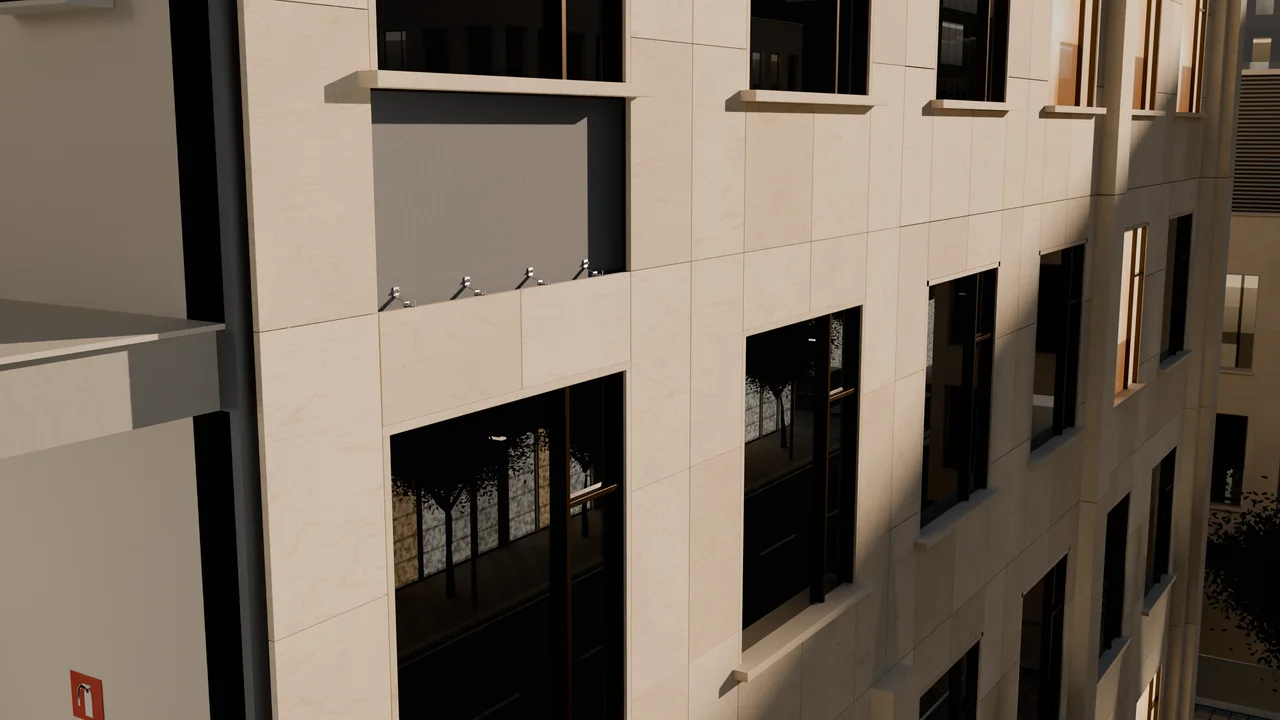
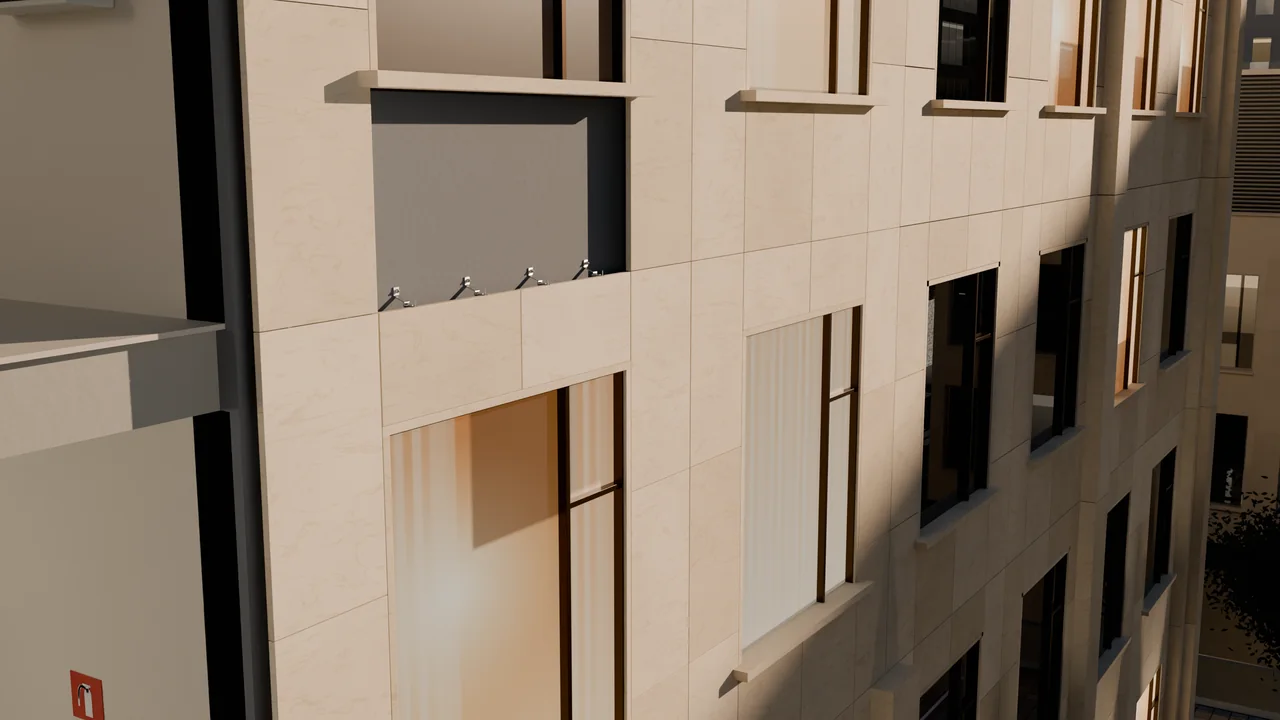
kv-v43b: facade chapter windows as lit rooms instead of black mirror glass
Claude-Session: https://claude.ai/code/session_01DoBbC3eykc5Fi4qFnF1oRj

diff --git a/assets/kv/herophoto.js b/assets/kv/herophoto.js
@@ -1,1 +1,1 @@
-const S=[{name:"The hotel",ox:.62,hi:2880,v:"fca9d9",tags:[]},{name:"Fa\xE7ade fixation",ox:.5,hi:2880,v:"5ce65e",tags:[{text:"Natural stone panels",num:null,href:"product/mechanical-cladding-fixation.html",x:.2466,y:.2372},{text:"Stainless Z-brackets",num:null,href:"s/z-brackets.html",x:.3729,y:.4036},{text:"Solid backing wall",num:null,href:"product/mechanical-cladding-fixation.html",x:.4204,y:.2644},{text:"Ventilated cavity",num:null,href:"product/mechanical-cladding-fixation.html",x:.4811,y:.2924}]},{name:"The Z-bracket kit",ox:.5,hi:2880,v:"8355e3",tags:[{text:"Z-bracket",num:"1",href:"s/z-brackets.html",x:.4004,y:.4414},{text:"Through bolt",num:"2",href:"s/anchors.html",x:.3714,y:.359},{text:"Serrated washer",num:"3",href:"s/z-brackets.html",x:.3811,y:.3216},{text:"Hex nuts",num:"4",href:"s/z-brackets.html",x:.4103,y:.5191},{text:"Flat head bolt",num:"5",href:"s/z-brackets.html",x:.432,y:.553},{text:"Pin with ring",num:"6",href:"s/z-brackets.html",x:.4434,y:.4982}]},{name:"Cable management",ox:.5,hi:2880,v:"dd6412",tags:[{text:"Perforated cable tray",num:null,href:"product/cable-trays.html",x:.3201,y:.235},{text:"Cable ladder",num:null,href:"product/cable-ladders.html",x:.7321,y:.5475},{text:"Strut channel trapeze",num:null,href:"product/c-channel-strut.html",x:.6573,y:.4215},{text:"Threaded rod & nuts",num:null,href:"s/threaded-accessories.html",x:.7319,y:.4777},{text:"Pipe clamps",num:null,href:"product/pipe-clamps.html",x:.3827,y:.4447},{text:"Cable trunking",num:null,href:"product/cable-trunkings.html",x:.16,y:.9149}]},{name:"Raised access floor",ox:.5,hi:2880,v:"5015d3",tags:[{text:"Porcelain slabs 600 \xD7 600 mm",num:null,href:"product/raised-access-flooring.html",x:.6838,y:.4969},{text:"Adjustable pedestals",num:null,href:"s/indoor-access-floor.html",x:.6216,y:.6939},{text:"Self-levelling head",num:null,href:"s/indoor-access-floor.html",x:.857,y:.5949}]},{name:"Ceilings & expansion joints",ox:.5,hi:2880,v:"5e539d",tags:[{text:"Metal ceiling grid",num:null,href:"product/metal-ceiling-grid.html",x:.4944,y:.3199},{text:"Floor expansion joint",num:null,href:"s/floor-joints.html",x:.41,y:.78},{text:"Wall joint cover",num:null,href:"s/wall-ceiling-joints.html",x:.398,y:.5393}]},{name:"Blockwork & lintels",ox:.5,hi:2880,v:"d82cc7",tags:[{text:"Blockwork partition",num:null,href:"s/block-accessories.html",x:.4462,y:.3793},{text:"Steel lintel",num:null,href:"s/steel-lintels.html",x:.5078,y:.316},{text:"Angle beads",num:null,href:"s/plaster-beads.html",x:.5452,y:.5425}]},{name:"Garbage & linen chute",ox:.5,hi:2880,v:"ae5405",tags:[{text:"Chute through every floor",num:null,href:"product/garbage-linen-chutes.html",x:.513,y:.385},{text:"Intake doors",num:null,href:"s/chute-components.html",x:.5025,y:.4667},{text:"Chute sections",num:null,href:"s/chute-components.html",x:.515,y:.74}]},{name:"The roof",ox:.5,hi:2880,v:"da81b9",tags:[{text:"Porcelain terrace",num:null,href:"s/outdoor-pedestals.html",x:.5,y:.78},{text:"Terrace on adjustable pedestals",num:null,href:"s/outdoor-pedestals.html",x:.4508,y:.6766},{text:"FRP grating walkway",num:null,href:"s/frp-grating-handrail.html",x:.6566,y:.5929},{text:"FRP handrail",num:null,href:"s/frp-grating-handrail.html",x:.788,y:.3357},{text:"Cable ladder on strut stands",num:null,href:"product/cable-ladders.html",x:.7073,y:.3621}]}],Nt=[{o:[1.7,.65,.58],i:[1.22,.1,0]},{o:[1.6,.48,.59],i:[1.2,0,.25]},{o:[1.28,.5,.5],i:[1.4,.69,.98]},{o:[1.3,.4,1],i:[1.3,.45,0]},{o:[1.3,.4,0],i:[1.3,.6,1]},{o:[1.3,.5,0],i:[1.3,.5,1]},{o:[1.18,.5,.5],i:[1.35,.46,.07]},{o:[1.5,.19,.82],i:[1.25,.45,1]}],p="img/hotel/",X=620,i=document.querySelector(".hero"),ut=i&&i.querySelector(".hero-media");i&&ut&&zt();function zt(){const B=matchMedia("(prefers-reduced-motion: reduce)").matches,N=matchMedia("(min-width: 900px)"),v=S.length;let h=null;B||(h=document.createElement("div"),h.className="kv3d-pin kv3d-pin-long",i.parentNode.insertBefore(h,i),h.appendChild(i));const G=()=>!!h&&N.matches,z=document.createElement("div");z.className="kvh-stack",ut.appendChild(z);const y=S.map((t,a)=>{let n;const o="?v="+t.v,e=t.hi>1?t.hi:2560,l=p+"c"+a+"-1280.webp"+o+" 1280w, "+p+"c"+a+"-1920.webp"+o+" 1920w"+(t.hi?", "+p+"c"+a+"-"+e+".webp"+o+" "+e+"w":"");return a===0?(n=document.createElement("picture"),n.innerHTML='<source media="(max-width: 899px)" srcset="'+p+"c0p-800.webp?v=579884 800w, "+p+'c0p-1080.webp?v=579884 1080w" sizes="100vw"><img src="'+p+"c0-1920.webp"+o+'" srcset="'+l+'" sizes="100vw" alt="" fetchpriority="high" decoding="async">'):(n=document.createElement("img"),n.alt="",n.decoding="async",n.dataset.srcset=l),n.className="kvh-img"+(a===0?" on":""),n.style.setProperty("--ox",t.ox*100+"%"),z.appendChild(n),n}),O=t=>y[t].tagName==="PICTURE"?y[t].querySelector("img"):y[t],ft=t=>{const a=O(t);return a.complete&&a.naturalWidth>0},E=t=>{const a=y[t];a&&a.dataset.srcset&&(a.sizes="100vw",a.srcset=a.dataset.srcset,delete a.dataset.srcset)},xt=(t,a,n)=>{if(E(t),ft(t))return a();const o=O(t);let e=!1;const l=()=>{e||(e=!0,a())};o.addEventListener("load",l,{once:!0}),o.addEventListener("error",l,{once:!0}),n&&setTimeout(l,n)},M=document.createElement("div");M.className="kv3d-labels",M.setAttribute("aria-hidden","true"),i.appendChild(M);const pt=(t,a)=>{const n=document.createElement("div");n.className="kv3d-tag",n.style.setProperty("--d",a*70+"ms");const o=document.createElement("span");o.className="kv3d-dot";const e=document.createElement("span");e.className="kv3d-line";const l=document.createElement(t.href?"a":"span");if(l.className="kv3d-chip",t.href&&(l.href=t.href,l.tabIndex=-1,l.style.textDecoration="none",l.style.pointerEvents="none"),t.num){const m=document.createElement("b");m.textContent=t.num,l.appendChild(m)}const u=document.createElement("span");return u.textContent=t.text,l.appendChild(u),n.append(e,o,l),M.appendChild(n),{el:n,line:e,chip:l,on:!1,href:!!t.href,x:t.x,y:t.y}},yt=S.map(t=>t.tags.map(pt)),I=document.createElement("div");I.className="kv3d-steps kv3d-steps-many";const gt=S.map((t,a)=>{const n=document.createElement("button");n.type="button",n.className="kv3d-step";const o=document.createElement("b");o.textContent=String(a+1).padStart(2,"0");const e=document.createElement("span");return e.textContent=t.name,n.append(o,e),n.setAttribute("aria-label",t.name),n.addEventListener("click",()=>{G()&&(E(a),scrollTo({top:vt(a),behavior:"smooth"}))}),I.appendChild(n),n});i.appendChild(I);const C=document.createElement("div");C.className="kv3d-hint",C.textContent="Scroll to tour the hotel",i.appendChild(C),h||(I.hidden=!0,C.hidden=!0);const _=()=>Math.max(1,h.offsetHeight-i.offsetHeight),vt=t=>h.getBoundingClientRect().top+scrollY-62+_()*(t/(v-1));let F=1,R=1;const Q=1920,J=1080,Et=(t,a,n)=>{const o=Math.max(F/Q,R/J),e=Q*o,l=J*o;return[(F-e)*t.ox+a*e,(R-l)*.5+n*l]};function D(){const t=i.getBoundingClientRect();F=Math.max(1,t.width),R=Math.max(1,t.height),P()}let T=0,q=!1,d=0,A=0,b=0,K=0,bt=2,$=0,U=0;const wt=()=>d;function P(){const t=G(),a=!q&&d===T;yt.forEach((o,e)=>Lt(o,S[e],t&&a&&e===T));const n=t?wt():0;i.classList.toggle("kv3d-detail",t&&n>0),gt.forEach((o,e)=>o.classList.toggle("on",e===n)),C.classList.toggle("gone",A>.02)}const tt=t=>"translate("+((1-t[0])*t[1]*100).toFixed(3)+"%,"+((1-t[0])*t[2]*100).toFixed(3)+"%) scale("+t[0]+")",kt="translate(0,0) scale(1)",Mt=t=>{const a=getComputedStyle(t);t.style.transition="none",t.style.transform=a.transform,t.style.opacity=a.opacity},et="cubic-bezier(.33,0,.15,1)";function Ct(t){const a=T,n=++U;q=!0,P(),xt(t,()=>{if(n!==U)return;const o=y[a],e=y[t],l=t>a,u=Math.abs(t-a)===1,m=u?Nt[Math.min(a,t)]:null,f=u?l?m.o:m.i:[1.22,.5,.5],L=u?l?m.i:m.o:[1.1,.5,.5];y.forEach(s=>{s.classList.contains("on")&&Mt(s)}),e.style.transition="none",e.style.zIndex=++bt,e.style.transformOrigin="0 0",e.classList.contains("on")||(e.style.opacity=0,e.style.transform=tt(L),e.classList.add("on")),o.style.transformOrigin="0 0",e.offsetWidth;const k="transform "+X+"ms "+et+", opacity "+Math.round(X*.8)+"ms ease-in-out";e.style.transition=k,e.style.transform=kt,e.style.opacity=1,o!==e&&(o.style.transition="transform "+X+"ms "+et,o.style.transform=tt(f)),T=t,clearTimeout($),$=setTimeout(()=>{n===U&&(y.forEach((s,r)=>{r!==t&&(s.classList.remove("on"),s.style.transition="none",s.style.transform="",s.style.opacity="")}),e.style.transition="none",e.style.transform="",e.style.opacity="",q=!1,P(),H())},X+40)},1200)}function H(){if(d===T){q||(E(T),P());return}Ct(d)}const nt=.2,Tt=.05;let w=0;function W(){if(!G()){A=0,d!==0&&(d=0,H()),P();return}const t=h.getBoundingClientRect(),a=Math.max(0,Math.min(1,(62-t.top)/_()));A=a;const n=a*(v-1);b===0?Math.abs(n-w)>.01&&(b=n>w?1:-1,w=n):(n-w)*b>=0?w=n:Math.abs(n-w)>Tt&&(b=-b,w=n);let o=d;b>0?o=Math.max(d,Math.floor(n-nt)+1):b<0&&(o=Math.min(d,Math.ceil(n+nt)-1)),o=Math.max(0,Math.min(v-1,o)),clearTimeout(K),K=setTimeout(()=>{const e=Math.round(A*(v-1));Math.abs(A*(v-1)-d)>=1&&e!==d&&(d=e,H())},250),C.classList.toggle("gone",a>.02),o!==d&&(d=o,E(Math.min(v-1,o+1)),H())}const at=42,st=60;function Lt(t,a,n){if(!t.length||(t.forEach(s=>{n!==s.on&&(s.on=n,s.el.classList.toggle("on",n),s.href&&(s.chip.style.pointerEvents=n?"auto":"none"))}),!n))return;const e=t.map(s=>{const[r,g]=Et(a,s.x,s.y);return{L:s,ax:r,ay:g}}).filter(s=>{const r=s.ax>16&&s.ax<F-16&&s.ay>70&&s.ay<R-16;return!r&&s.L.on&&(s.L.on=!1,s.L.el.classList.remove("on"),s.L.href&&(s.L.chip.style.pointerEvents="none")),r});if(!e.length)return;const l=e.reduce((s,r)=>s+r.ax,0)/e.length,u=Math.min(...e.map(s=>s.ax)),m=Math.max(...e.map(s=>s.ax)),f={l:[],r:[]};e.forEach(s=>f[s.ax<l?"l":"r"].push(s));const L=96,k=R-118;["l","r"].forEach(s=>{const r=f[s].sort((c,St)=>c.ay-St.ay);if(!r.length)return;const g=s==="l"?u-st*.6:m+st*.6,x=s==="l"?Math.max(240,g):Math.min(F-240,g);let Z=-1e9;r.forEach(c=>{c.ty=Math.max(c.ay,Z+at),Z=c.ty});const ht=Z-k;ht>0&&r.forEach(c=>c.ty-=ht);for(let c=r.length-2;c>=0;c--)r[c].ty=Math.min(r[c].ty,r[c+1].ty-at);const mt=L-r[0].ty;mt>0&&r.forEach(c=>c.ty+=mt),r.forEach(c=>{s==="r"&&c.ax>x-30?(c.tx=Math.min(x,c.ax-70),c.left=!0):s==="l"&&c.ax<x+30?(c.tx=Math.max(x,c.ax+70),c.left=!1):(c.tx=x,c.left=s==="l")})}),e.forEach(s=>{const r=s.L,g=s.tx-s.ax,x=s.ty-s.ay;r.el.style.transform="translate("+s.ax.toFixed(1)+"px,"+s.ay.toFixed(1)+"px)",r.el.classList.toggle("left",s.left),r.line.style.width=Math.hypot(g,x).toFixed(1)+"px",r.line.style.transform="rotate("+Math.atan2(x,g).toFixed(4)+"rad)",r.chip.style.left=g.toFixed(1)+"px",r.chip.style.top=x.toFixed(1)+"px"})}const j=document.createElement("section");j.className="kvh-tour"+(h?"":" show"),j.setAttribute("aria-label","Tour the hotel"),j.innerHTML='<div class="wrap"><span class="eyebrow">Tour the hotel</span><p class="kvh-tour-lead">One building, every system: swipe through the floors.</p></div>';const V=document.createElement("div");V.className="kvh-tour-rail",j.appendChild(V),S.forEach((t,a)=>{if(a===0)return;const n=document.createElement("article");n.className="kvh-tour-card";const o="?v="+t.v,e=document.createElement("img");e.loading="lazy",e.decoding="async",e.alt=t.name,e.width=1280,e.height=720,e.src=p+"c"+a+"-1280.webp"+o,e.srcset=p+"c"+a+"-1280.webp"+o+" 1280w, "+p+"c"+a+"-1920.webp"+o+" 1920w",e.sizes="(max-width: 899px) 86vw, 40vw";const l=document.createElement("h3"),u=document.createElement("b");u.textContent=String(a+1).padStart(2,"0"),l.append(u,document.createTextNode(" "+t.name));const m=document.createElement("ul");t.tags.forEach(f=>{const L=document.createElement("li"),k=document.createElement(f.href?"a":"span");f.href&&(k.href=f.href),k.textContent=f.text,L.appendChild(k),m.appendChild(L)}),n.append(e,l,m),V.appendChild(n)}),(h||i).insertAdjacentElement("afterend",j);const ot=["scroll","wheel","touchstart","keydown","pointerdown"];let lt=!1;const rt=()=>{if(!(lt||!N.matches||B)){lt=!0;for(let t=1;t<v;t++)setTimeout(()=>E(t),120*t);ot.forEach(t=>removeEventListener(t,rt))}},ct=()=>{!N.matches||B||(E(1),E(2))};"requestIdleCallback"in window?requestIdleCallback(ct,{timeout:2500}):setTimeout(ct,1500),ot.forEach(t=>addEventListener(t,rt,{passive:!0})),addEventListener("scroll",W,{passive:!0}),!B&&matchMedia("(pointer:fine)").matches&&(i.addEventListener("pointermove",t=>{const a=i.getBoundingClientRect(),n=(t.clientX-a.left)/a.width-.5,o=(t.clientY-a.top)/a.height-.5,e="translate3d("+(-n*14).toFixed(1)+"px,"+(-o*9).toFixed(1)+"px,0) scale(1.025)";z.style.transform=e,M.style.transform=e}),i.addEventListener("pointerleave",()=>{z.style.transform="",M.style.transform=""}));const it=()=>{i.classList.add("has-3d","kvh-ready"),h&&h.classList.add("on"),D(),W()},Y=O(0);Y.complete&&Y.naturalWidth?it():Y.addEventListener("load",it,{once:!0});let dt;addEventListener("resize",()=>{clearTimeout(dt),dt=setTimeout(()=>{D(),W()},80)}),N.addEventListener&&N.addEventListener("change",()=>{D(),W()})}
+const S=[{name:"The hotel",ox:.62,hi:2880,v:"fca9d9",tags:[]},{name:"Fa\xE7ade fixation",ox:.5,hi:2880,v:"74015c",tags:[{text:"Natural stone panels",num:null,href:"product/mechanical-cladding-fixation.html",x:.2466,y:.2372},{text:"Stainless Z-brackets",num:null,href:"s/z-brackets.html",x:.3729,y:.4036},{text:"Solid backing wall",num:null,href:"product/mechanical-cladding-fixation.html",x:.4204,y:.2644},{text:"Ventilated cavity",num:null,href:"product/mechanical-cladding-fixation.html",x:.4811,y:.2924}]},{name:"The Z-bracket kit",ox:.5,hi:2880,v:"8355e3",tags:[{text:"Z-bracket",num:"1",href:"s/z-brackets.html",x:.4004,y:.4414},{text:"Through bolt",num:"2",href:"s/anchors.html",x:.3714,y:.359},{text:"Serrated washer",num:"3",href:"s/z-brackets.html",x:.3811,y:.3216},{text:"Hex nuts",num:"4",href:"s/z-brackets.html",x:.4103,y:.5191},{text:"Flat head bolt",num:"5",href:"s/z-brackets.html",x:.432,y:.553},{text:"Pin with ring",num:"6",href:"s/z-brackets.html",x:.4434,y:.4982}]},{name:"Cable management",ox:.5,hi:2880,v:"dd6412",tags:[{text:"Perforated cable tray",num:null,href:"product/cable-trays.html",x:.3201,y:.235},{text:"Cable ladder",num:null,href:"product/cable-ladders.html",x:.7321,y:.5475},{text:"Strut channel trapeze",num:null,href:"product/c-channel-strut.html",x:.6573,y:.4215},{text:"Threaded rod & nuts",num:null,href:"s/threaded-accessories.html",x:.7319,y:.4777},{text:"Pipe clamps",num:null,href:"product/pipe-clamps.html",x:.3827,y:.4447},{text:"Cable trunking",num:null,href:"product/cable-trunkings.html",x:.16,y:.9149}]},{name:"Raised access floor",ox:.5,hi:2880,v:"5015d3",tags:[{text:"Porcelain slabs 600 \xD7 600 mm",num:null,href:"product/raised-access-flooring.html",x:.6838,y:.4969},{text:"Adjustable pedestals",num:null,href:"s/indoor-access-floor.html",x:.6216,y:.6939},{text:"Self-levelling head",num:null,href:"s/indoor-access-floor.html",x:.857,y:.5949}]},{name:"Ceilings & expansion joints",ox:.5,hi:2880,v:"5e539d",tags:[{text:"Metal ceiling grid",num:null,href:"product/metal-ceiling-grid.html",x:.4944,y:.3199},{text:"Floor expansion joint",num:null,href:"s/floor-joints.html",x:.41,y:.78},{text:"Wall joint cover",num:null,href:"s/wall-ceiling-joints.html",x:.398,y:.5393}]},{name:"Blockwork & lintels",ox:.5,hi:2880,v:"d82cc7",tags:[{text:"Blockwork partition",num:null,href:"s/block-accessories.html",x:.4462,y:.3793},{text:"Steel lintel",num:null,href:"s/steel-lintels.html",x:.5078,y:.316},{text:"Angle beads",num:null,href:"s/plaster-beads.html",x:.5452,y:.5425}]},{name:"Garbage & linen chute",ox:.5,hi:2880,v:"ae5405",tags:[{text:"Chute through every floor",num:null,href:"product/garbage-linen-chutes.html",x:.513,y:.385},{text:"Intake doors",num:null,href:"s/chute-components.html",x:.5025,y:.4667},{text:"Chute sections",num:null,href:"s/chute-components.html",x:.515,y:.74}]},{name:"The roof",ox:.5,hi:2880,v:"da81b9",tags:[{text:"Porcelain terrace",num:null,href:"s/outdoor-pedestals.html",x:.5,y:.78},{text:"Terrace on adjustable pedestals",num:null,href:"s/outdoor-pedestals.html",x:.4508,y:.6766},{text:"FRP grating walkway",num:null,href:"s/frp-grating-handrail.html",x:.6566,y:.5929},{text:"FRP handrail",num:null,href:"s/frp-grating-handrail.html",x:.788,y:.3357},{text:"Cable ladder on strut stands",num:null,href:"product/cable-ladders.html",x:.7073,y:.3621}]}],Nt=[{o:[1.7,.65,.58],i:[1.22,.1,0]},{o:[1.6,.48,.59],i:[1.2,0,.25]},{o:[1.28,.5,.5],i:[1.4,.69,.98]},{o:[1.3,.4,1],i:[1.3,.45,0]},{o:[1.3,.4,0],i:[1.3,.6,1]},{o:[1.3,.5,0],i:[1.3,.5,1]},{o:[1.18,.5,.5],i:[1.35,.46,.07]},{o:[1.5,.19,.82],i:[1.25,.45,1]}],p="img/hotel/",X=620,i=document.querySelector(".hero"),ut=i&&i.querySelector(".hero-media");i&&ut&&zt();function zt(){const B=matchMedia("(prefers-reduced-motion: reduce)").matches,N=matchMedia("(min-width: 900px)"),v=S.length;let h=null;B||(h=document.createElement("div"),h.className="kv3d-pin kv3d-pin-long",i.parentNode.insertBefore(h,i),h.appendChild(i));const G=()=>!!h&&N.matches,z=document.createElement("div");z.className="kvh-stack",ut.appendChild(z);const y=S.map((t,a)=>{let n;const o="?v="+t.v,e=t.hi>1?t.hi:2560,l=p+"c"+a+"-1280.webp"+o+" 1280w, "+p+"c"+a+"-1920.webp"+o+" 1920w"+(t.hi?", "+p+"c"+a+"-"+e+".webp"+o+" "+e+"w":"");return a===0?(n=document.createElement("picture"),n.innerHTML='<source media="(max-width: 899px)" srcset="'+p+"c0p-800.webp?v=579884 800w, "+p+'c0p-1080.webp?v=579884 1080w" sizes="100vw"><img src="'+p+"c0-1920.webp"+o+'" srcset="'+l+'" sizes="100vw" alt="" fetchpriority="high" decoding="async">'):(n=document.createElement("img"),n.alt="",n.decoding="async",n.dataset.srcset=l),n.className="kvh-img"+(a===0?" on":""),n.style.setProperty("--ox",t.ox*100+"%"),z.appendChild(n),n}),O=t=>y[t].tagName==="PICTURE"?y[t].querySelector("img"):y[t],ft=t=>{const a=O(t);return a.complete&&a.naturalWidth>0},E=t=>{const a=y[t];a&&a.dataset.srcset&&(a.sizes="100vw",a.srcset=a.dataset.srcset,delete a.dataset.srcset)},xt=(t,a,n)=>{if(E(t),ft(t))return a();const o=O(t);let e=!1;const l=()=>{e||(e=!0,a())};o.addEventListener("load",l,{once:!0}),o.addEventListener("error",l,{once:!0}),n&&setTimeout(l,n)},M=document.createElement("div");M.className="kv3d-labels",M.setAttribute("aria-hidden","true"),i.appendChild(M);const pt=(t,a)=>{const n=document.createElement("div");n.className="kv3d-tag",n.style.setProperty("--d",a*70+"ms");const o=document.createElement("span");o.className="kv3d-dot";const e=document.createElement("span");e.className="kv3d-line";const l=document.createElement(t.href?"a":"span");if(l.className="kv3d-chip",t.href&&(l.href=t.href,l.tabIndex=-1,l.style.textDecoration="none",l.style.pointerEvents="none"),t.num){const m=document.createElement("b");m.textContent=t.num,l.appendChild(m)}const u=document.createElement("span");return u.textContent=t.text,l.appendChild(u),n.append(e,o,l),M.appendChild(n),{el:n,line:e,chip:l,on:!1,href:!!t.href,x:t.x,y:t.y}},yt=S.map(t=>t.tags.map(pt)),I=document.createElement("div");I.className="kv3d-steps kv3d-steps-many";const gt=S.map((t,a)=>{const n=document.createElement("button");n.type="button",n.className="kv3d-step";const o=document.createElement("b");o.textContent=String(a+1).padStart(2,"0");const e=document.createElement("span");return e.textContent=t.name,n.append(o,e),n.setAttribute("aria-label",t.name),n.addEventListener("click",()=>{G()&&(E(a),scrollTo({top:vt(a),behavior:"smooth"}))}),I.appendChild(n),n});i.appendChild(I);const C=document.createElement("div");C.className="kv3d-hint",C.textContent="Scroll to tour the hotel",i.appendChild(C),h||(I.hidden=!0,C.hidden=!0);const _=()=>Math.max(1,h.offsetHeight-i.offsetHeight),vt=t=>h.getBoundingClientRect().top+scrollY-62+_()*(t/(v-1));let F=1,R=1;const Q=1920,J=1080,Et=(t,a,n)=>{const o=Math.max(F/Q,R/J),e=Q*o,l=J*o;return[(F-e)*t.ox+a*e,(R-l)*.5+n*l]};function D(){const t=i.getBoundingClientRect();F=Math.max(1,t.width),R=Math.max(1,t.height),P()}let T=0,q=!1,d=0,A=0,b=0,K=0,bt=2,$=0,U=0;const wt=()=>d;function P(){const t=G(),a=!q&&d===T;yt.forEach((o,e)=>Lt(o,S[e],t&&a&&e===T));const n=t?wt():0;i.classList.toggle("kv3d-detail",t&&n>0),gt.forEach((o,e)=>o.classList.toggle("on",e===n)),C.classList.toggle("gone",A>.02)}const tt=t=>"translate("+((1-t[0])*t[1]*100).toFixed(3)+"%,"+((1-t[0])*t[2]*100).toFixed(3)+"%) scale("+t[0]+")",kt="translate(0,0) scale(1)",Mt=t=>{const a=getComputedStyle(t);t.style.transition="none",t.style.transform=a.transform,t.style.opacity=a.opacity},et="cubic-bezier(.33,0,.15,1)";function Ct(t){const a=T,n=++U;q=!0,P(),xt(t,()=>{if(n!==U)return;const o=y[a],e=y[t],l=t>a,u=Math.abs(t-a)===1,m=u?Nt[Math.min(a,t)]:null,f=u?l?m.o:m.i:[1.22,.5,.5],L=u?l?m.i:m.o:[1.1,.5,.5];y.forEach(s=>{s.classList.contains("on")&&Mt(s)}),e.style.transition="none",e.style.zIndex=++bt,e.style.transformOrigin="0 0",e.classList.contains("on")||(e.style.opacity=0,e.style.transform=tt(L),e.classList.add("on")),o.style.transformOrigin="0 0",e.offsetWidth;const k="transform "+X+"ms "+et+", opacity "+Math.round(X*.8)+"ms ease-in-out";e.style.transition=k,e.style.transform=kt,e.style.opacity=1,o!==e&&(o.style.transition="transform "+X+"ms "+et,o.style.transform=tt(f)),T=t,clearTimeout($),$=setTimeout(()=>{n===U&&(y.forEach((s,r)=>{r!==t&&(s.classList.remove("on"),s.style.transition="none",s.style.transform="",s.style.opacity="")}),e.style.transition="none",e.style.transform="",e.style.opacity="",q=!1,P(),H())},X+40)},1200)}function H(){if(d===T){q||(E(T),P());return}Ct(d)}const nt=.2,Tt=.05;let w=0;function W(){if(!G()){A=0,d!==0&&(d=0,H()),P();return}const t=h.getBoundingClientRect(),a=Math.max(0,Math.min(1,(62-t.top)/_()));A=a;const n=a*(v-1);b===0?Math.abs(n-w)>.01&&(b=n>w?1:-1,w=n):(n-w)*b>=0?w=n:Math.abs(n-w)>Tt&&(b=-b,w=n);let o=d;b>0?o=Math.max(d,Math.floor(n-nt)+1):b<0&&(o=Math.min(d,Math.ceil(n+nt)-1)),o=Math.max(0,Math.min(v-1,o)),clearTimeout(K),K=setTimeout(()=>{const e=Math.round(A*(v-1));Math.abs(A*(v-1)-d)>=1&&e!==d&&(d=e,H())},250),C.classList.toggle("gone",a>.02),o!==d&&(d=o,E(Math.min(v-1,o+1)),H())}const at=42,st=60;function Lt(t,a,n){if(!t.length||(t.forEach(s=>{n!==s.on&&(s.on=n,s.el.classList.toggle("on",n),s.href&&(s.chip.style.pointerEvents=n?"auto":"none"))}),!n))return;const e=t.map(s=>{const[r,g]=Et(a,s.x,s.y);return{L:s,ax:r,ay:g}}).filter(s=>{const r=s.ax>16&&s.ax<F-16&&s.ay>70&&s.ay<R-16;return!r&&s.L.on&&(s.L.on=!1,s.L.el.classList.remove("on"),s.L.href&&(s.L.chip.style.pointerEvents="none")),r});if(!e.length)return;const l=e.reduce((s,r)=>s+r.ax,0)/e.length,u=Math.min(...e.map(s=>s.ax)),m=Math.max(...e.map(s=>s.ax)),f={l:[],r:[]};e.forEach(s=>f[s.ax<l?"l":"r"].push(s));const L=96,k=R-118;["l","r"].forEach(s=>{const r=f[s].sort((c,St)=>c.ay-St.ay);if(!r.length)return;const g=s==="l"?u-st*.6:m+st*.6,x=s==="l"?Math.max(240,g):Math.min(F-240,g);let Z=-1e9;r.forEach(c=>{c.ty=Math.max(c.ay,Z+at),Z=c.ty});const ht=Z-k;ht>0&&r.forEach(c=>c.ty-=ht);for(let c=r.length-2;c>=0;c--)r[c].ty=Math.min(r[c].ty,r[c+1].ty-at);const mt=L-r[0].ty;mt>0&&r.forEach(c=>c.ty+=mt),r.forEach(c=>{s==="r"&&c.ax>x-30?(c.tx=Math.min(x,c.ax-70),c.left=!0):s==="l"&&c.ax<x+30?(c.tx=Math.max(x,c.ax+70),c.left=!1):(c.tx=x,c.left=s==="l")})}),e.forEach(s=>{const r=s.L,g=s.tx-s.ax,x=s.ty-s.ay;r.el.style.transform="translate("+s.ax.toFixed(1)+"px,"+s.ay.toFixed(1)+"px)",r.el.classList.toggle("left",s.left),r.line.style.width=Math.hypot(g,x).toFixed(1)+"px",r.line.style.transform="rotate("+Math.atan2(x,g).toFixed(4)+"rad)",r.chip.style.left=g.toFixed(1)+"px",r.chip.style.top=x.toFixed(1)+"px"})}const j=document.createElement("section");j.className="kvh-tour"+(h?"":" show"),j.setAttribute("aria-label","Tour the hotel"),j.innerHTML='<div class="wrap"><span class="eyebrow">Tour the hotel</span><p class="kvh-tour-lead">One building, every system: swipe through the floors.</p></div>';const V=document.createElement("div");V.className="kvh-tour-rail",j.appendChild(V),S.forEach((t,a)=>{if(a===0)return;const n=document.createElement("article");n.className="kvh-tour-card";const o="?v="+t.v,e=document.createElement("img");e.loading="lazy",e.decoding="async",e.alt=t.name,e.width=1280,e.height=720,e.src=p+"c"+a+"-1280.webp"+o,e.srcset=p+"c"+a+"-1280.webp"+o+" 1280w, "+p+"c"+a+"-1920.webp"+o+" 1920w",e.sizes="(max-width: 899px) 86vw, 40vw";const l=document.createElement("h3"),u=document.createElement("b");u.textContent=String(a+1).padStart(2,"0"),l.append(u,document.createTextNode(" "+t.name));const m=document.createElement("ul");t.tags.forEach(f=>{const L=document.createElement("li"),k=document.createElement(f.href?"a":"span");f.href&&(k.href=f.href),k.textContent=f.text,L.appendChild(k),m.appendChild(L)}),n.append(e,l,m),V.appendChild(n)}),(h||i).insertAdjacentElement("afterend",j);const ot=["scroll","wheel","touchstart","keydown","pointerdown"];let lt=!1;const rt=()=>{if(!(lt||!N.matches||B)){lt=!0;for(let t=1;t<v;t++)setTimeout(()=>E(t),120*t);ot.forEach(t=>removeEventListener(t,rt))}},ct=()=>{!N.matches||B||(E(1),E(2))};"requestIdleCallback"in window?requestIdleCallback(ct,{timeout:2500}):setTimeout(ct,1500),ot.forEach(t=>addEventListener(t,rt,{passive:!0})),addEventListener("scroll",W,{passive:!0}),!B&&matchMedia("(pointer:fine)").matches&&(i.addEventListener("pointermove",t=>{const a=i.getBoundingClientRect(),n=(t.clientX-a.left)/a.width-.5,o=(t.clientY-a.top)/a.height-.5,e="translate3d("+(-n*14).toFixed(1)+"px,"+(-o*9).toFixed(1)+"px,0) scale(1.025)";z.style.transform=e,M.style.transform=e}),i.addEventListener("pointerleave",()=>{z.style.transform="",M.style.transform=""}));const it=()=>{i.classList.add("has-3d","kvh-ready"),h&&h.classList.add("on"),D(),W()},Y=O(0);Y.complete&&Y.naturalWidth?it():Y.addEventListener("load",it,{once:!0});let dt;addEventListener("resize",()=>{clearTimeout(dt),dt=setTimeout(()=>{D(),W()},80)}),N.addEventListener&&N.addEventListener("change",()=>{D(),W()})}

diff --git a/index.html b/index.html
@@ -369,6 +369,6 @@
 
 
 <script src="assets/kv/ui.js?v=b01cdc5f" defer id="kv-ui-js"></script>
-<script type="module" src="assets/kv/herophoto.js?v=69b47eea" id="kv-3d-js"></script>
+<script type="module" src="assets/kv/herophoto.js?v=8a79d98c" id="kv-3d-js"></script>
 </body>
 </html>
